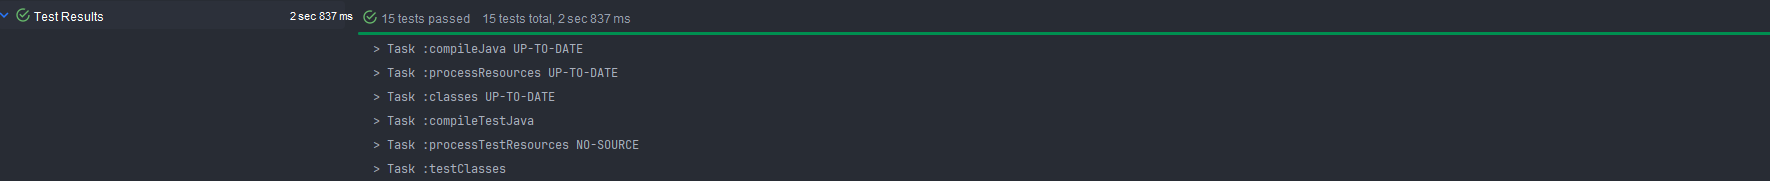
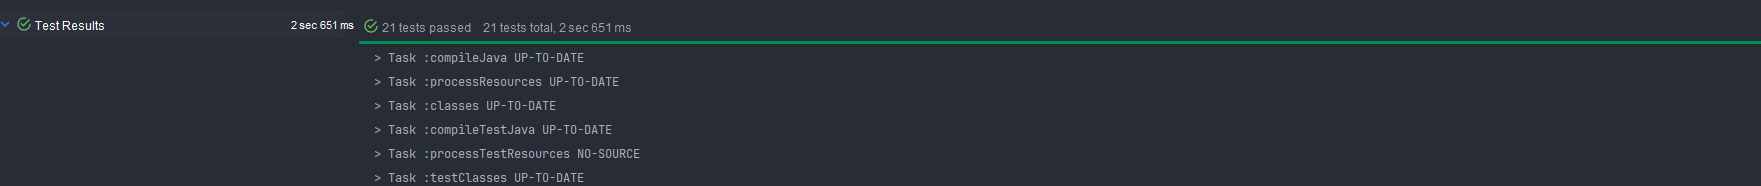
modify: code refactoring

diff --git a/src/test/java/com/nsuslab/member/security/sec/AuthenticationProviderImplTest.java b/src/test/java/com/nsuslab/member/security/sec/AuthenticationProviderImplTest.java
@@ -1,0 +1,123 @@
+package com.nsuslab.member.security.sec;
+
+import org.junit.jupiter.api.BeforeEach;
+import org.junit.jupiter.api.DisplayName;
+import org.junit.jupiter.api.Test;
+import org.junit.jupiter.api.extension.ExtendWith;
+import org.mockito.junit.jupiter.MockitoExtension;
+import org.springframework.security.authentication.BadCredentialsException;
+import org.springframework.security.authentication.UsernamePasswordAuthenticationToken;
+import org.springframework.security.core.authority.SimpleGrantedAuthority;
+import org.springframework.security.core.userdetails.UsernameNotFoundException;
+import org.springframework.security.crypto.password.PasswordEncoder;
+
+import java.util.Set;
+
+import static org.assertj.core.api.Assertions.assertThat;
+import static org.assertj.core.api.Assertions.assertThatThrownBy;
+import static org.mockito.ArgumentMatchers.any;
+import static org.mockito.BDDMockito.given;
+import static org.mockito.BDDMockito.then;
+import static org.mockito.Mockito.mock;
+import static org.mockito.Mockito.never;
+
+@ExtendWith(MockitoExtension.class)
+class AuthenticationProviderImplTest {
+
+    private UserDetailsServiceImpl userDetailsService;
+    private PasswordEncoder passwordEncoder;
+    private AuthenticationProviderImpl authenticationProvider;
+
+    @BeforeEach
+    void setUp() {
+        userDetailsService = mock(UserDetailsServiceImpl.class);
+        passwordEncoder = mock(PasswordEncoder.class);
+
+        authenticationProvider = new AuthenticationProviderImpl(
+                userDetailsService, passwordEncoder
+        );
+    }
+
+    @Test
+    @DisplayName("정상 인증 성공")
+    void authenticate_success() {
+        // given
+        String username = "testuser";
+        String rawPassword = "password123";
+        String encodedPassword = "$2a$10$abcd1234encoded";
+        Set<SimpleGrantedAuthority> authorities =
+                Set.of(new SimpleGrantedAuthority("ROLE_USER"));
+
+        UserDetailsImpl userDetails = new UserDetailsImpl(username, encodedPassword, authorities, true, true, true, true);
+
+        UsernamePasswordAuthenticationToken inputToken =
+                new UsernamePasswordAuthenticationToken(username, rawPassword);
+
+        // stubbing
+        given(userDetailsService.loadUserByUsername(username))
+                .willReturn(userDetails);
+        given(passwordEncoder.matches(rawPassword, encodedPassword))
+                .willReturn(true);
+
+        // when
+        UsernamePasswordAuthenticationToken result =
+                (UsernamePasswordAuthenticationToken) authenticationProvider.authenticate(inputToken);
+
+        // then
+        assertThat(result.getPrincipal()).isEqualTo(username);
+        assertThat(result.getAuthorities()).hasSize(1);
+        assertThat(result.getAuthorities().iterator().next().getAuthority()).isEqualTo("ROLE_USER");
+
+        then(userDetailsService).should().loadUserByUsername(username);
+        then(passwordEncoder).should().matches(rawPassword, encodedPassword);
+    }
+
+    @Test
+    @DisplayName("존재하지 않는 사용자 → UsernameNotFoundException 발생")
+    void authenticate_userNotFound() {
+        // given
+        String username = "unknown";
+        String password = "pass";
+
+        UsernamePasswordAuthenticationToken token =
+                new UsernamePasswordAuthenticationToken(username, password);
+
+        given(userDetailsService.loadUserByUsername(username))
+                .willThrow(new UsernameNotFoundException("User not found"));
+
+        // when & then
+        assertThatThrownBy(() -> authenticationProvider.authenticate(token))
+                .isInstanceOf(UsernameNotFoundException.class);
+
+        then(userDetailsService).should().loadUserByUsername(username);
+        then(passwordEncoder).should(never()).matches(any(), any());
+    }
+
+    @Test
+    @DisplayName("비밀번호 불일치 → BadCredentialsException 발생")
+    void authenticate_invalidPassword() {
+        // given
+        String username = "testuser";
+        String rawPassword = "wrongPassword";
+        String encodedPassword = "$2a$10$abcd1234encoded";
+        Set<SimpleGrantedAuthority> authorities =
+                Set.of(new SimpleGrantedAuthority("ROLE_USER"));
+
+        UserDetailsImpl userDetails = new UserDetailsImpl(username, encodedPassword, authorities, true, true, true, true);
+
+        UsernamePasswordAuthenticationToken token =
+                new UsernamePasswordAuthenticationToken(username, rawPassword);
+
+        given(userDetailsService.loadUserByUsername(username))
+                .willReturn(userDetails);
+        given(passwordEncoder.matches(rawPassword, encodedPassword))
+                .willReturn(false);
+
+        // when & then
+        assertThatThrownBy(() -> authenticationProvider.authenticate(token))
+                .isInstanceOf(BadCredentialsException.class);
+
+        then(userDetailsService).should().loadUserByUsername(username);
+        then(passwordEncoder).should().matches(rawPassword, encodedPassword);
+    }
+}

diff --git a/src/test/java/com/nsuslab/member/security/sec/UserDetailsServiceImplTest.java b/src/test/java/com/nsuslab/member/security/sec/UserDetailsServiceImplTest.java
@@ -1,0 +1,85 @@
+package com.nsuslab.member.security.sec;
+
+import com.nsuslab.member.entity.Member;
+import com.nsuslab.member.repository.MemberQueryRepository;
+import org.junit.jupiter.api.DisplayName;
+import org.junit.jupiter.api.Test;
+import org.junit.jupiter.api.extension.ExtendWith;
+import org.mockito.InjectMocks;
+import org.mockito.Mock;
+import org.mockito.junit.jupiter.MockitoExtension;
+import org.springframework.security.core.userdetails.UsernameNotFoundException;
+
+import java.util.Optional;
+
+import static org.assertj.core.api.Assertions.assertThat;
+import static org.assertj.core.api.Assertions.assertThatThrownBy;
+import static org.mockito.ArgumentMatchers.anyString;
+import static org.mockito.BDDMockito.given;
+
+@ExtendWith(MockitoExtension.class)
+class UserDetailsServiceImplTest {
+
+    @Mock
+    private MemberQueryRepository memberQueryRepository;
+
+    @InjectMocks
+    private UserDetailsServiceImpl userDetailsService;
+
+    @Test
+    @DisplayName("정상적으로 Member를 조회하면 UserDetails를 반환한다")
+    void loadUserByUsername_success() {
+        // given
+        Member member = Member.builder()
+                .loginId("user1")
+                .password("encodedPw")
+                .build();
+
+        given(memberQueryRepository.findByLoginId("user1"))
+                .willReturn(Optional.of(member));
+
+        // when
+        UserDetailsImpl result = (UserDetailsImpl) userDetailsService.loadUserByUsername("user1");
+
+        // then
+        assertThat(result).isNotNull();
+        assertThat(result.getUsername()).isEqualTo("user1");
+        assertThat(result.getPassword()).isEqualTo("encodedPw");
+    }
+
+    @Test
+    @DisplayName("존재하지 않는 loginId 요청 시 UsernameNotFoundException 발생")
+    void loadUserByUsername_notFound() {
+        // given
+        given(memberQueryRepository.findByLoginId(anyString()))
+                .willReturn(Optional.empty());
+
+        // when & then
+        assertThatThrownBy(() ->
+                        userDetailsService.loadUserByUsername("unknown")
+                ).isInstanceOf(UsernameNotFoundException.class)
+                .hasMessageContaining("Member not found");
+    }
+
+    @Test
+    @DisplayName("UserDetails의 enabled/locked 상태 등이 true 인지 검증")
+    void loadUserByUsername_statusFlags() {
+        // given
+        Member member = Member.builder()
+                .loginId("user2")
+                .password("pw2")
+                .build();
+
+        given(memberQueryRepository.findByLoginId("user2"))
+                .willReturn(Optional.of(member));
+
+        // when
+        UserDetailsImpl details = (UserDetailsImpl) userDetailsService.loadUserByUsername("user2");
+
+        // then
+        assertThat(details.isAccountNonExpired()).isTrue();
+        assertThat(details.isAccountNonLocked()).isTrue();
+        assertThat(details.isCredentialsNonExpired()).isTrue();
+        assertThat(details.isEnabled()).isTrue();
+    }
+}

diff --git a/src/main/java/com/nsuslab/member/security/sec/CustomAuthenticationFilter.java b/src/main/java/com/nsuslab/member/security/sec/CustomAuthenticationFilter.java
@@ -39,33 +39,9 @@ public class CustomAuthenticationFilter extends UsernamePasswordAuthenticationFi
 
             // AuthenticationManager에 전달 -> AuthenticationProvider에서 검증
             return this.getAuthenticationManager().authenticate(authRequest);
-
-//        final UsernamePasswordAuthenticationToken authRequest;
-//        final Member member;
-//        try {
-//            // 사용자 요청 정보로 UserPasswordAuthenticationToken 발급
-////            String refreshToken = Arrays.stream(request.getCookies() == null ? new Cookie[0] : request.getCookies())
-////                    .filter(c -> "refreshToken".equals(c.getName()))
-////                    .map(Cookie::getValue)
-////                    .findFirst()
-////                    .orElse(null);
-////
-////            String loginId = jwtProvider.getSubject(refreshToken);
-////            String password = jwtProvider.getSubject(refreshToken);
-//
-////            LoginRequest loginRequest = new ObjectMapper().readValue(request.getInputStream(), LoginRequest.class);
-//            member = new ObjectMapper().readValue(request.getInputStream(), Member.class);
-//
-//            authRequest = new UsernamePasswordAuthenticationToken(member.getLoginId(), member.getPassword());
-////            authRequest = new UsernamePasswordAuthenticationToken(loginId, "1111");
         } catch (IOException e) {
             throw new RuntimeException("Token 발급 실패");
         }
-
-//        setDetails(request, authRequest);
-
-        // AuthenticationManager에게 전달 -> AuthenticationProvider의 인증 메서드 실행
-//        return this.getAuthenticationManager().authenticate(authRequest);
     }
 
 }

diff --git a/src/test/java/com/nsuslab/member/service/RedisServiceTest.java b/src/test/java/com/nsuslab/member/service/RedisServiceTest.java
@@ -1,6 +1,5 @@
 package com.nsuslab.member.service;
 
-import org.junit.jupiter.api.BeforeEach;
 import org.junit.jupiter.api.DisplayName;
 import org.junit.jupiter.api.Test;
 import org.junit.jupiter.api.extension.ExtendWith;
@@ -13,8 +12,8 @@ import org.springframework.data.redis.core.ValueOperations;
 import java.time.Duration;
 import java.util.concurrent.TimeUnit;
 
+import static org.assertj.core.api.Assertions.assertThat;
 import static org.mockito.BDDMockito.*;
-import static org.assertj.core.api.Assertions.*;
 
 @ExtendWith(MockitoExtension.class)
 class RedisServiceTest {
@@ -27,14 +26,6 @@ class RedisServiceTest {
 
     @Mock
     private ValueOperations<String, String> valueOps;
-
-//    @Mock
-//    private ValueOperations<String, String> ops;
-
-//    @BeforeEach
-//    void setUp() {
-//        given(redisTemplate.opsForValue()).willReturn(valueOps);
-//    }
 
     @Test
     @DisplayName("Refresh Token 저장 성공")

diff --git a/src/test/java/com/nsuslab/member/service/MemberServiceTest.java b/src/test/java/com/nsuslab/member/service/MemberServiceTest.java
@@ -1,16 +1,15 @@
 package com.nsuslab.member.service;
 
 import com.nsuslab.member.api.dto.response.MemberResponse;
+import com.nsuslab.member.entity.Member;
 import com.nsuslab.member.repository.MemberQueryRepository;
 import com.nsuslab.member.repository.MemberRepository;
-import com.nsuslab.member.entity.Member;
 import org.junit.jupiter.api.BeforeEach;
 import org.junit.jupiter.api.DisplayName;
 import org.junit.jupiter.api.Test;
 import org.junit.jupiter.api.extension.ExtendWith;
 import org.mockito.InjectMocks;
 import org.mockito.Mock;
-import org.mockito.MockitoAnnotations;
 import org.mockito.junit.jupiter.MockitoExtension;
 import org.springframework.security.crypto.password.PasswordEncoder;
 

diff --git a/src/main/java/com/nsuslab/member/security/sec/UserDetailsServiceImpl.java b/src/main/java/com/nsuslab/member/security/sec/UserDetailsServiceImpl.java
@@ -28,11 +28,6 @@ public class UserDetailsServiceImpl implements UserDetailsService {
                 .map(UserRole::grantedAuthorities)
                 .orElseThrow(() -> new IllegalStateException("Invalid role: " + member.getRole()));
 
-//        Set<SimpleGrantedAuthority> authority = null;
-//        for (UserRole role : UserRole.values()) {
-//            if(member.get().getRole().equals(role.name())) authority = role.grantedAuthorities();
-//        }
-
         return new UserDetailsImpl(
                 member.getLoginId(),
                 member.getPassword(),

diff --git a/README.md b/README.md
@@ -22,12 +22,13 @@ http://localhost:8080/swagger-ui/index.html
 - AuthenticationManager, Filter, Provider 구조로 커스텀 인증 로직 구현
 - CustomAuthenticationFilter와 JwtFilter를 통한 로그인/토큰 검증 처리
 
-### 2. Access Token(메모리) + Refresh Token(HttpOnly Cookie) + Refresh Token 서버 검증
+### 2. Access Token(헤더) + Refresh Token(HttpOnly Cookie) + Refresh Token 서버(Redis) 검증
 - Access Token이 JS 메모리에만 있으므로 CSRF 공격 방어
 - Refresh Token이 HttpOnly Cookie → XSS 방어
 - Refresh Token 서버 저장(RTR) → 탈취 후 즉시 무효화 가능
 - Access Token 갱신 시 요청 크기 최소화 → 성능 최고
 - 완벽한 stateless 는 아니지만, 필요한 부분만 stateful 해서 보안 강화
+- Access Token: 필요 시에만 Blacklist 설정 (Access Token 블랙리스트를 Redis에 넣고, TTL을 Access Token 만료시간과 동일하게 설정)
 
 ### 3. Redis
 - 로그인/갱신 시 Refresh Token 저장
@@ -38,6 +39,16 @@ http://localhost:8080/swagger-ui/index.html
 - JPA는 객체 중심 개발을 가능하게 하고, 변경 감지·1차 캐시·지연 로딩 같은 성능 최적화 기능을 기본 제공하여 SQL 작성량을 줄임
 - QueryDSL 활용 → 타입 안전한 쿼리 작성 가능
 - 복잡한 조회는 Querydsl로 해결하며, 전반적으로 비즈니스 로직에 집중할 수 있는 구조
+
+### 5. 책임 분리
+- 단일 책임 원칙(SRP): 한 클래스, 한 컴포넌트가 하나의 책임만 담당
+  - RedisService: Refresh 토큰 상태 저장/조회/삭제
+  - AuthService: 로그인 비즈니스 로직
+  - JwtProvider: 토큰 생성/검증
+  - JwtFilter: JWT 검증 필터
+  - UserDetailsServiceImpl: DB에서 사용자 정보 조회 및 권한 부여
+- 의존성 주입(DI): 클래스 내부에서 직접 의존성을 만들지 않고 외부에서 주입 → 테스트 용이
+- 인터페이스 기반 설계: 구현과 사용을 분리 → 교체 용이, Mocking 가능
 
 
 ## [TO-DO]
